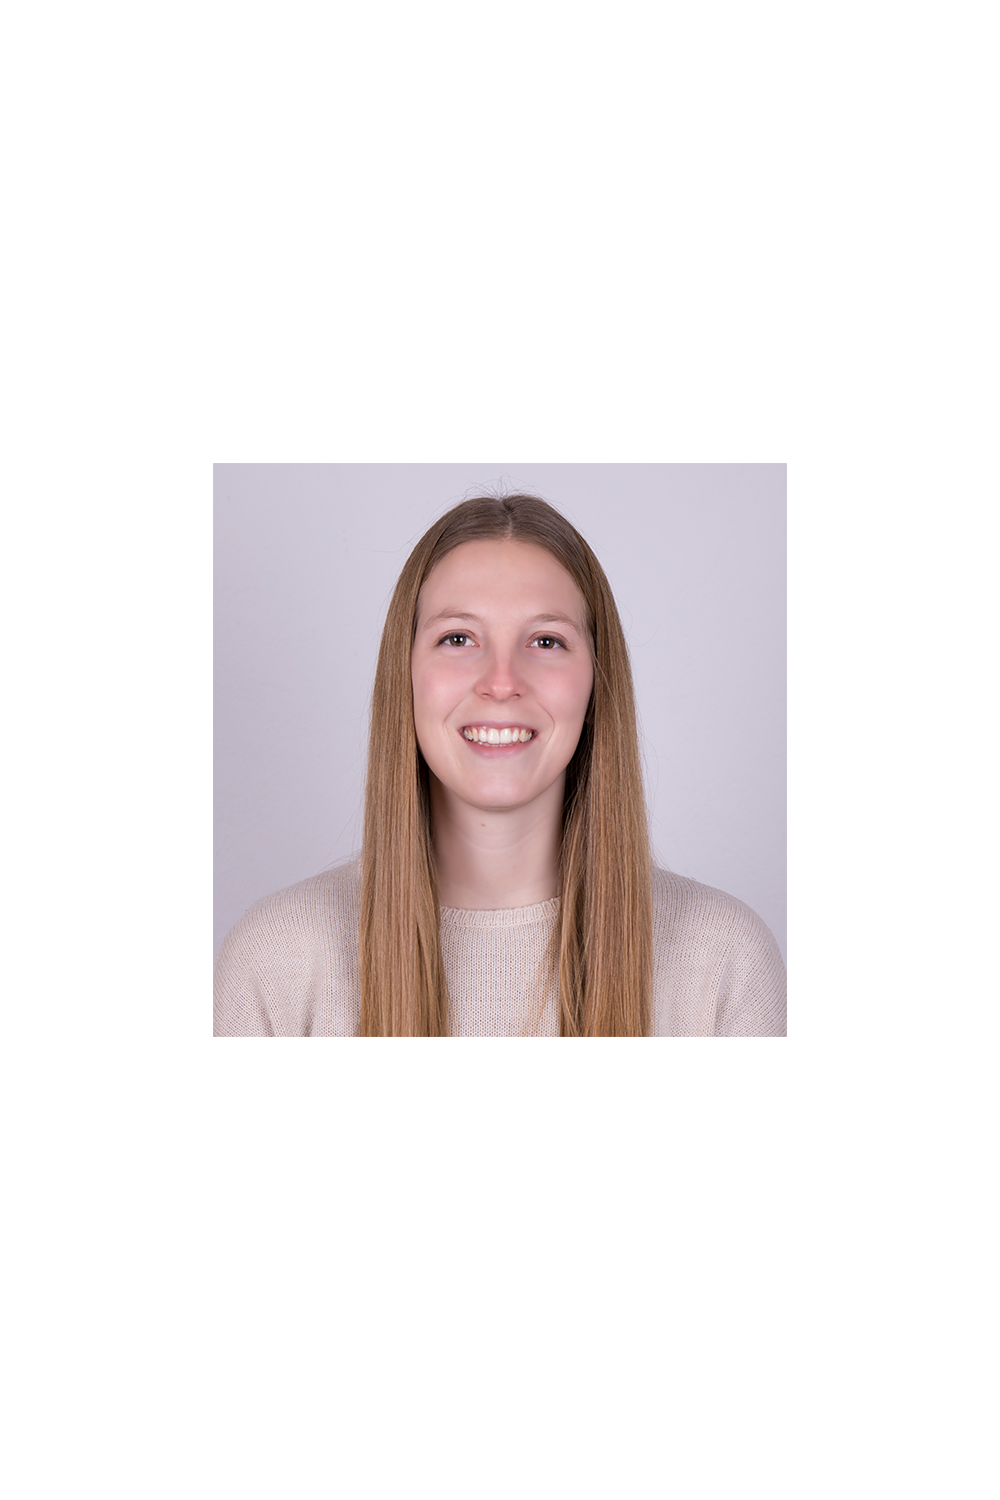
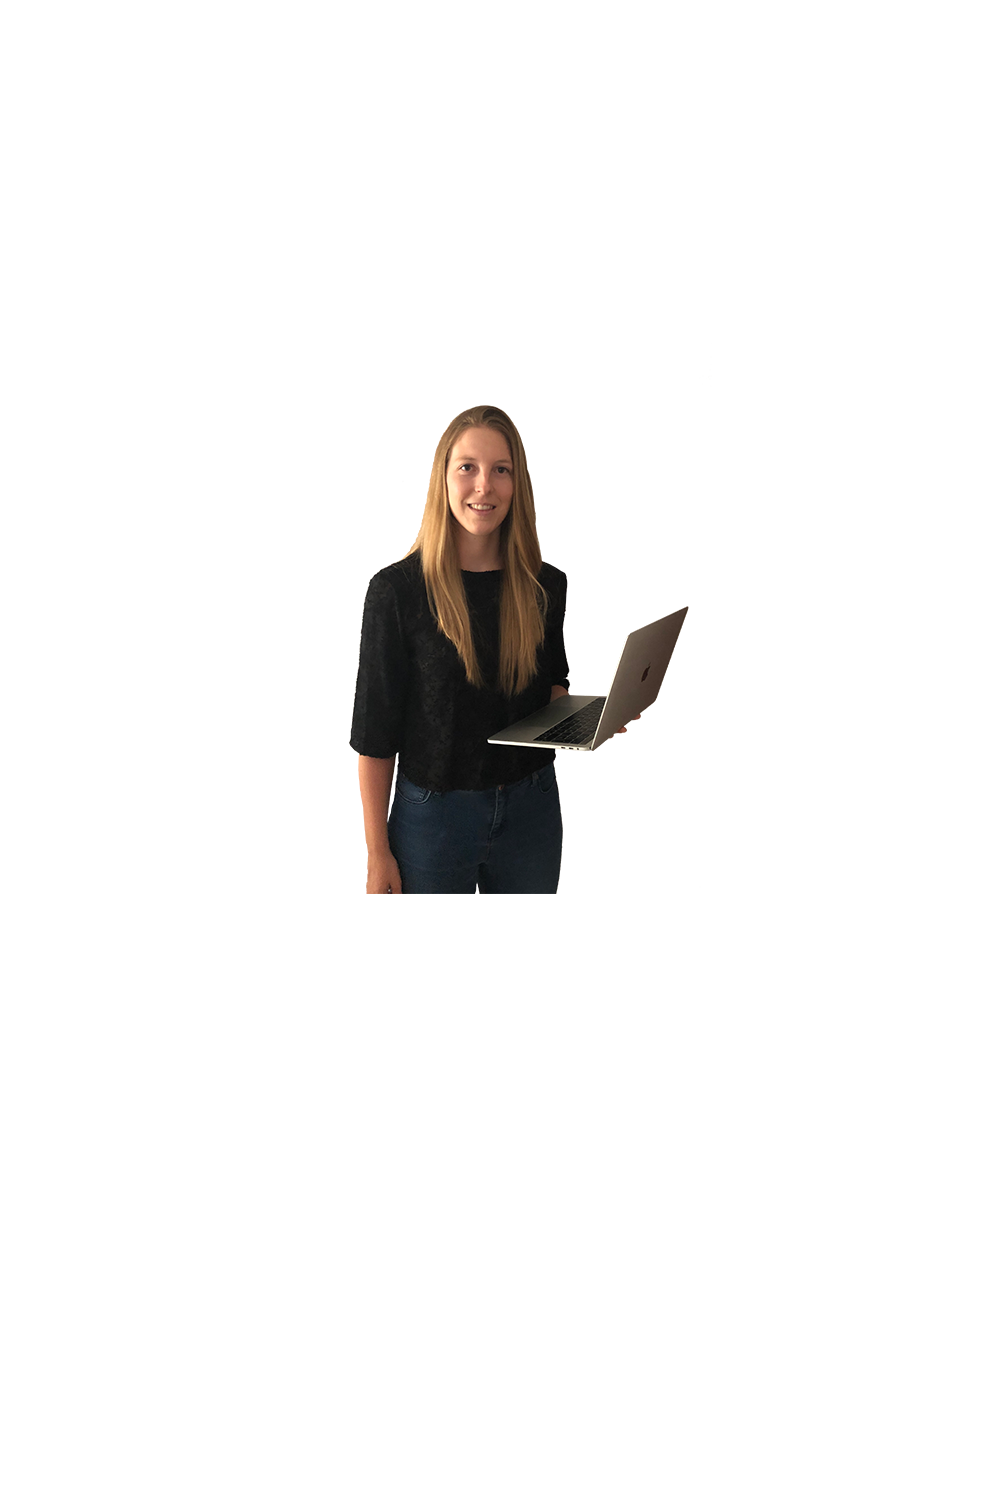
Update profile img

Changed region(s): [[0.186, 0.2453, 0.806, 0.7053]]

diff --git a/src/components/WorkExperience.vue b/src/components/WorkExperience.vue
@@ -50,11 +50,11 @@
                 {{ task }}
               </li>
             </ul>
-            <ul class="list-horizontal">
-              <li v-for="(skill, index) in project.skills" :key="index">
+            <v-chip-group column>
+              <v-chip v-for="(skill, index) in project.skills" :key="index">
                 {{ skill }}
-              </li>
-            </ul>
+              </v-chip>
+            </v-chip-group>
           </v-col>
         </v-row>
       </v-timeline-item>

diff --git a/src/views/About.vue b/src/views/About.vue
@@ -27,7 +27,7 @@
         </div>
       </v-col>
       <v-col cols="12" sm="6">
-        <!-- TODO <v-parallax src="../assets/img/profile.png"></v-parallax>-->
+        <v-parallax src="../assets/img/profile.png"></v-parallax>
       </v-col>
     </v-row>
   </v-container>
